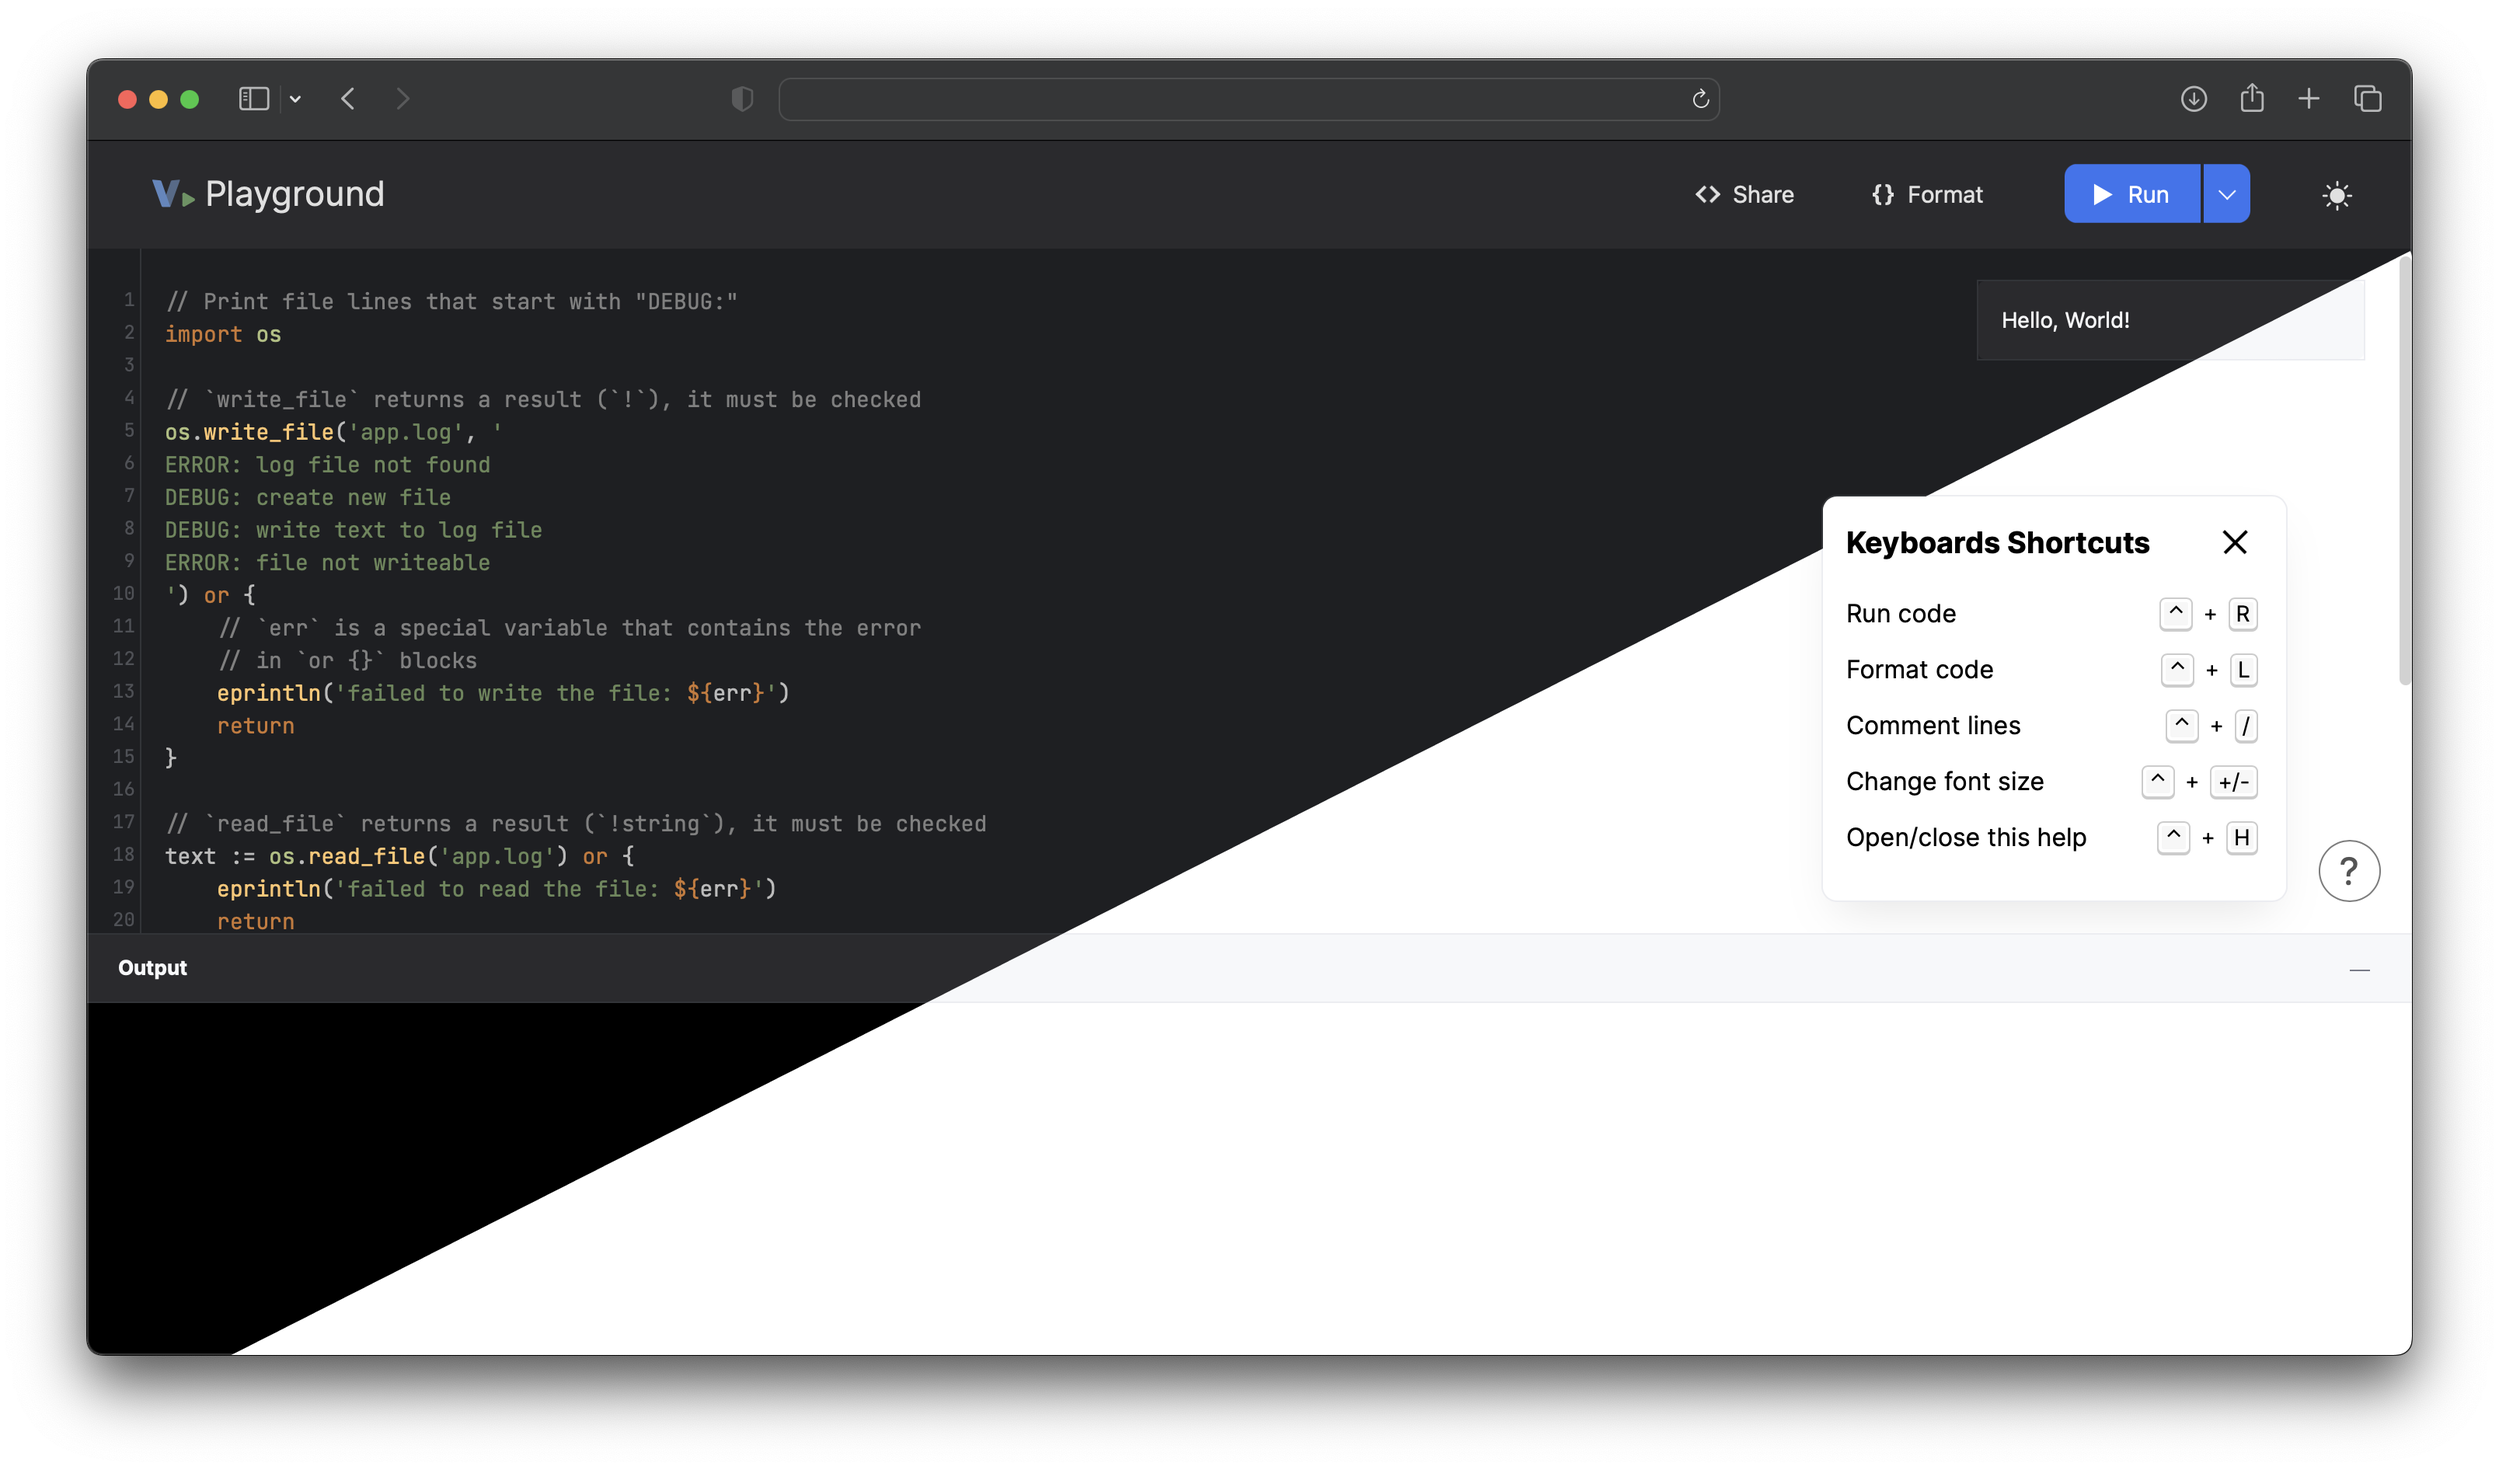
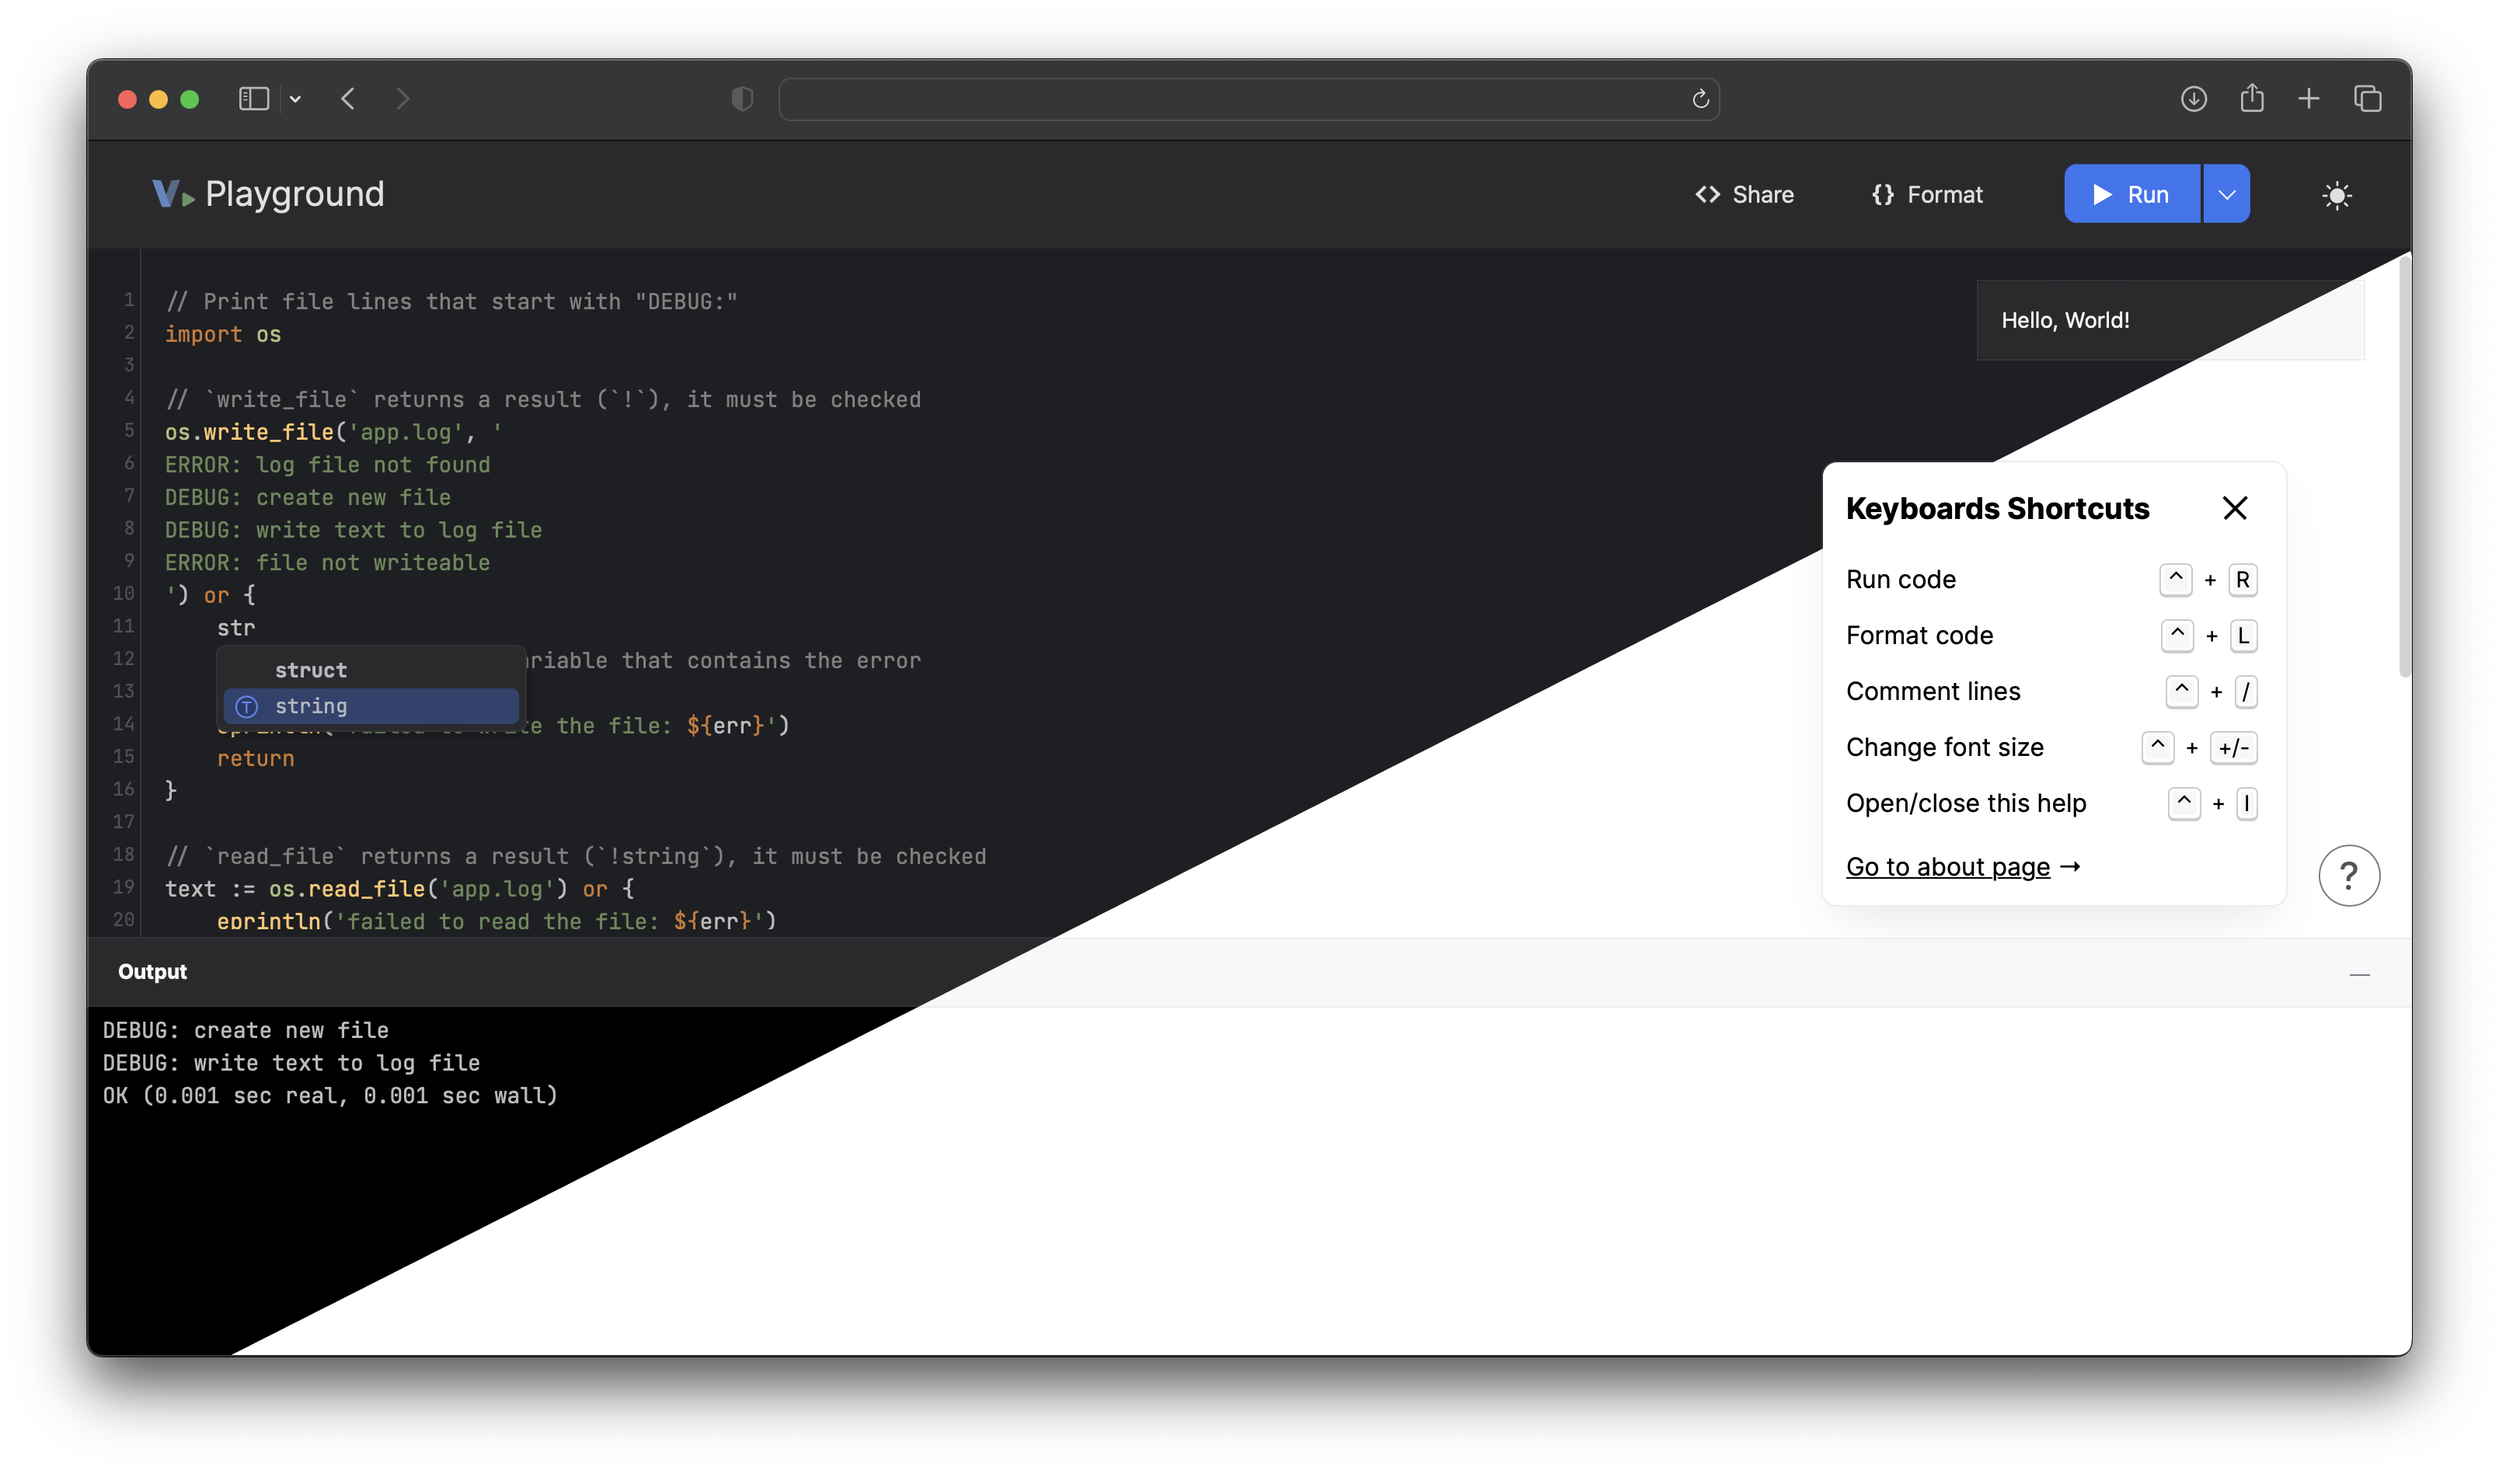
add initial autocompletion (#43)

diff --git a/www/js/v_hint.js b/www/js/v_hint.js
@@ -1,0 +1,160 @@
+const Pos = CodeMirror.Pos;
+
+const keywords =
+    `as asm assert atomic break const continue defer else enum fn for go goto if import in interface is isreftype lock match module mut none or pub return rlock select shared sizeof static struct spawn type typeof union unsafe volatile __offsetof`.split(' ')
+
+const pseudoKeywords = `sql`.split(' ')
+
+const atoms = `true false nil print println exit panic error dump`.split(' ')
+
+const builtinTypes = `bool string i8 i16 int i64 i128 u8 u16 u32 u64 u128 rune f32 f64 isize usize voidptr any`.split(' ')
+
+const baseModules = [
+    "arrays",
+    "benchmark", "bitfield",
+    "cli", "clipboard", "compress", "context", "crypto",
+    "darwin", "datatypes", "dl", "dlmalloc",
+    "encoding", "eventbus",
+    "flag", "fontstash",
+    "gg", "gx",
+    "hash",
+    "io",
+    "js", "json",
+    "log",
+    "math", "mssql", "mysql",
+    "net",
+    "orm", "os",
+    "pg", "picoev", "picohttpparser",
+    "rand", "readline", "regex", "runtime",
+    "semver", "sokol", "sqlite", "stbi", "strconv", "strings", "sync", "szip",
+    "term", "time", "toml",
+    "v", "vweb",
+    "x",
+]
+
+function arrayContains(arr, item) {
+    if (!Array.prototype.indexOf) {
+        let i = arr.length;
+        while (i--) {
+            if (arr[i] === item) {
+                return true;
+            }
+        }
+        return false;
+    }
+    return arr.indexOf(item) !== -1;
+}
+
+function scriptHint(editor, keywords, getToken, options) {
+    let context = [];
+    // Find the token at the cursor
+    const cur = editor.getCursor();
+    let token = getToken(editor, cur);
+
+    // check if token value is blank
+    if (token.string.trim() === '') {
+        const len = token.string.length;
+        const prevToken = getToken(editor, Pos(cur.line, cur.ch - len - 1));
+        context.push(prevToken);
+    }
+
+    const len = token.string.length;
+    const prevToken = getToken(editor, Pos(cur.line, cur.ch - len));
+    if (token.string === '.') {
+        context.push(token);
+    }
+    if (prevToken.string === '.') {
+        context.push(prevToken);
+    }
+
+    if (/\b(?:string|comment)\b/.test(token.type)) return;
+    const innerMode = CodeMirror.innerMode(editor.getMode(), token.state);
+    if (innerMode.mode.helperType === "json") return;
+    token.state = innerMode.state;
+
+    // If it's not a 'word-style' token, ignore the token.
+    if (!/^[\w$_]*$/.test(token.string)) {
+        token = {
+            start: cur.ch, end: cur.ch, string: "", state: token.state,
+            type: token.string === "." ? "property" : null
+        };
+    } else if (token.end > cur.ch) {
+        token.end = cur.ch;
+        token.string = token.string.slice(0, cur.ch - token.start);
+    }
+
+    return {
+        list: getCompletions(token, context, keywords, options),
+        from: Pos(cur.line, token.start),
+        to: Pos(cur.line, token.end)
+    };
+}
+
+function getHint(editor, options) {
+    return scriptHint(editor, keywords,
+        (e, cur) => e.getTokenAt(cur),
+        options);
+}
+
+function getCompletions(token, context, options) {
+    const found = [], start = token.string;
+
+    function maybeAdd(obj) {
+        const str = obj.text
+        if (str.lastIndexOf(start, 0) === 0 && !arrayContains(found, str)) found.push(obj);
+    }
+
+    if (context && context.length) {
+        const lastToken = context.pop();
+        if (lastToken.type === "keyword" && lastToken.string === "import") {
+            baseModules.forEach((text) => {
+                maybeAdd({
+                    text: text,
+                    displayText: text,
+                    className: 'completion-module',
+                })
+            })
+            return found;
+        }
+
+        if (lastToken.string === ".") {
+            return [];
+        }
+    }
+
+    keywords.forEach((text) => {
+        maybeAdd({
+            text: text,
+            displayText: text,
+            className: 'completion-keyword',
+        })
+    })
+
+    pseudoKeywords.forEach((text) => {
+        maybeAdd({
+            text: text,
+            displayText: text,
+            className: 'completion-keyword',
+        })
+    })
+
+    atoms.forEach((text) => {
+        maybeAdd({
+            text: text,
+            displayText: text,
+            className: 'completion-atom',
+        })
+    })
+
+    builtinTypes.forEach((text) => {
+        maybeAdd({
+            text: text,
+            displayText: text,
+            className: 'completion-type',
+        })
+    })
+
+    return found;
+}
+
+CodeMirror.registerHelper("hint", "v", getHint);

diff --git a/www/css/playground.css b/www/css/playground.css
@@ -17,6 +17,11 @@ html {
     --terminal-error: #c02929;
     --playground-link: #4f4f4f;
     --run-embeded-icon-color: #000000;
+
+    --completion-variant-background: #cfdefd;
+    --completion-variant-color: #000;
+    --completion-module-icon: url("../images/module-light.svg");
+    --completion-type-icon: url("../images/type-light.svg");
 }
 
 html[data-theme='dark'] {
@@ -38,6 +43,11 @@ html[data-theme='dark'] {
     --terminal-error: #e04949;
     --playground-link: #8d8d8d;
     --run-embeded-icon-color: #fff;
+
+    --completion-variant-background: #2e436e;
+    --completion-variant-color: #b4b8c0;
+    --completion-module-icon: url("../images/module.svg");
+    --completion-type-icon: url("../images/type.svg");
 }
 
 ::-webkit-scrollbar {
@@ -197,4 +207,66 @@ body.dragging .playground__terminal .header {
 
 .playground__terminal .terminal__output::-webkit-scrollbar-track-piece {
     background-color: var(--terminal-background);
+}
+
+.CodeMirror-hints {
+    position: absolute;
+    z-index: 10;
+    overflow: hidden;
+    list-style: none;
+
+    min-width: 200px;
+    margin: 0;
+    padding: 4px;
+
+    -webkit-box-shadow: 2px 3px 5px rgba(0,0,0,.2);
+    -moz-box-shadow: 2px 3px 5px rgba(0,0,0,.2);
+    box-shadow: 2px 3px 5px rgba(0,0,0,.2);
+
+    border-radius: 6px;
+    border: 1px solid var(--select-header-border);
+    background: var(--select-background);
+
+    color: var(--completion-variant-color);
+    font-size: 80%;
+    font-family: "JetBrains Mono", ui-monospace, SFMono-Regular, SF Mono, Consolas, Liberation Mono, Menlo, monospace;
+
+    max-height: 20em;
+    overflow-y: auto;
+}
+
+.CodeMirror-hint {
+    padding: 3px 10px 3px 33px;
+    border-radius: 5px;
+    white-space: pre;
+    cursor: pointer;
+}
+
+.CodeMirror-hint.completion-keyword {
+    font-weight: 600;
+}
+
+.CodeMirror-hint.completion-type::before {
+    background-image: var(--completion-type-icon);
+}
+
+.CodeMirror-hint.completion-module::before {
+    background-image: var(--completion-module-icon);
+    opacity: 0.9;
+}
+
+.CodeMirror-hint::before {
+    content: "";
+    display: inline-block;
+    position: absolute;
+    left: 10px;
+    width: 18px;
+    height: 18px;
+    margin-right: 5px;
+    background-repeat: no-repeat;
+    background-size: 18px;
+}
+
+li.CodeMirror-hint-active {
+    background-color: var(--completion-variant-background);
 }

diff --git a/www/js/playground.bundle.js b/www/js/playground.bundle.js
@@ -180,6 +180,9 @@ var Editor = /** @class */ (function () {
     Editor.prototype.setTheme = function (theme) {
         this.editor.setOption("theme", theme.name());
     };
+    Editor.prototype.showCompletion = function () {
+        this.editor.execCommand("autocomplete");
+    };
     Editor.prototype.refresh = function () {
         this.editor.refresh();
     };
@@ -671,6 +674,12 @@ var Playground = /** @class */ (function () {
     };
     Playground.prototype.setupShortcuts = function () {
         var _this = this;
+        this.editor.editor.on("keypress", function (cm, event) {
+            if (!cm.state.completionActive && // Enables keyboard navigation in autocomplete list
+                event.key.length === 1 && event.key.match(/[a-z0-9]/i)) { // Only letters and numbers trigger autocomplete
+                _this.editor.showCompletion();
+            }
+        });
         document.addEventListener("keydown", function (ev) {
             var isCodeFromShareURL = _this.repository instanceof SharedCodeRepository;
             if (isCodeFromShareURL && !ev.ctrlKey && !ev.metaKey) {

diff --git a/www/index.html b/www/index.html
@@ -250,8 +250,10 @@
 <script src="https://cdnjs.cloudflare.com/ajax/libs/codemirror/6.65.7/addon/edit/matchbrackets.min.js"></script>
 <script src="https://cdnjs.cloudflare.com/ajax/libs/codemirror/6.65.7/addon/edit/closebrackets.min.js"></script>
 <script src="https://cdnjs.cloudflare.com/ajax/libs/codemirror/6.65.7/mode/css/css.js"></script>
+<script src="https://cdnjs.cloudflare.com/ajax/libs/codemirror/6.65.7/addon/hint/show-hint.min.js"></script>
 
 <script src="./js/v.js"></script>
+<script src="./js/v_hint.js"></script>
 <script src="./js/playground.bundle.js"></script>
 <script src="./js/main.js"></script>
 

diff --git a/www/ts/Playground.ts b/www/ts/Playground.ts
@@ -173,6 +173,13 @@ class Playground {
     }
 
     public setupShortcuts(): void {
+        this.editor.editor.on("keypress",  (cm, event) => {
+            if (!cm.state.completionActive && // Enables keyboard navigation in autocomplete list
+                event.key.length === 1 && event.key.match(/[a-z0-9]/i)) { // Only letters and numbers trigger autocomplete
+                this.editor.showCompletion()
+            }
+        });
+
         document.addEventListener("keydown", ev => {
             const isCodeFromShareURL = this.repository instanceof SharedCodeRepository
 

diff --git a/www/ts/Editor/Editor.ts b/www/ts/Editor/Editor.ts
@@ -3,7 +3,7 @@ class Editor {
 
     private wrapperElement: HTMLElement
     private repository: CodeRepository
-    private editor: CodeMirror.Editor
+    public editor: CodeMirror.Editor
     public terminal: Terminal
 
     constructor(wrapper: HTMLElement, repository: CodeRepository) {
@@ -125,6 +125,10 @@ class Editor {
 
     public setTheme(theme: ITheme) {
         this.editor.setOption("theme", theme.name())
+    }
+
+    public showCompletion() {
+       this.editor.execCommand("autocomplete")
     }
 
     public refresh() {

diff --git a/www/js/v.js b/www/js/v.js
@@ -51,7 +51,7 @@ CodeMirror.defineMode("v", function (config) {
 
     const atoms = {
         "true": true, "false": true, "nil": true, "print": true,
-        "println": true, "exit": true, "panic": true, "error": true,
+        "println": true, "exit": true, "panic": true, "error": true, "dump": true,
     };
 
     const builtinTypes = {
